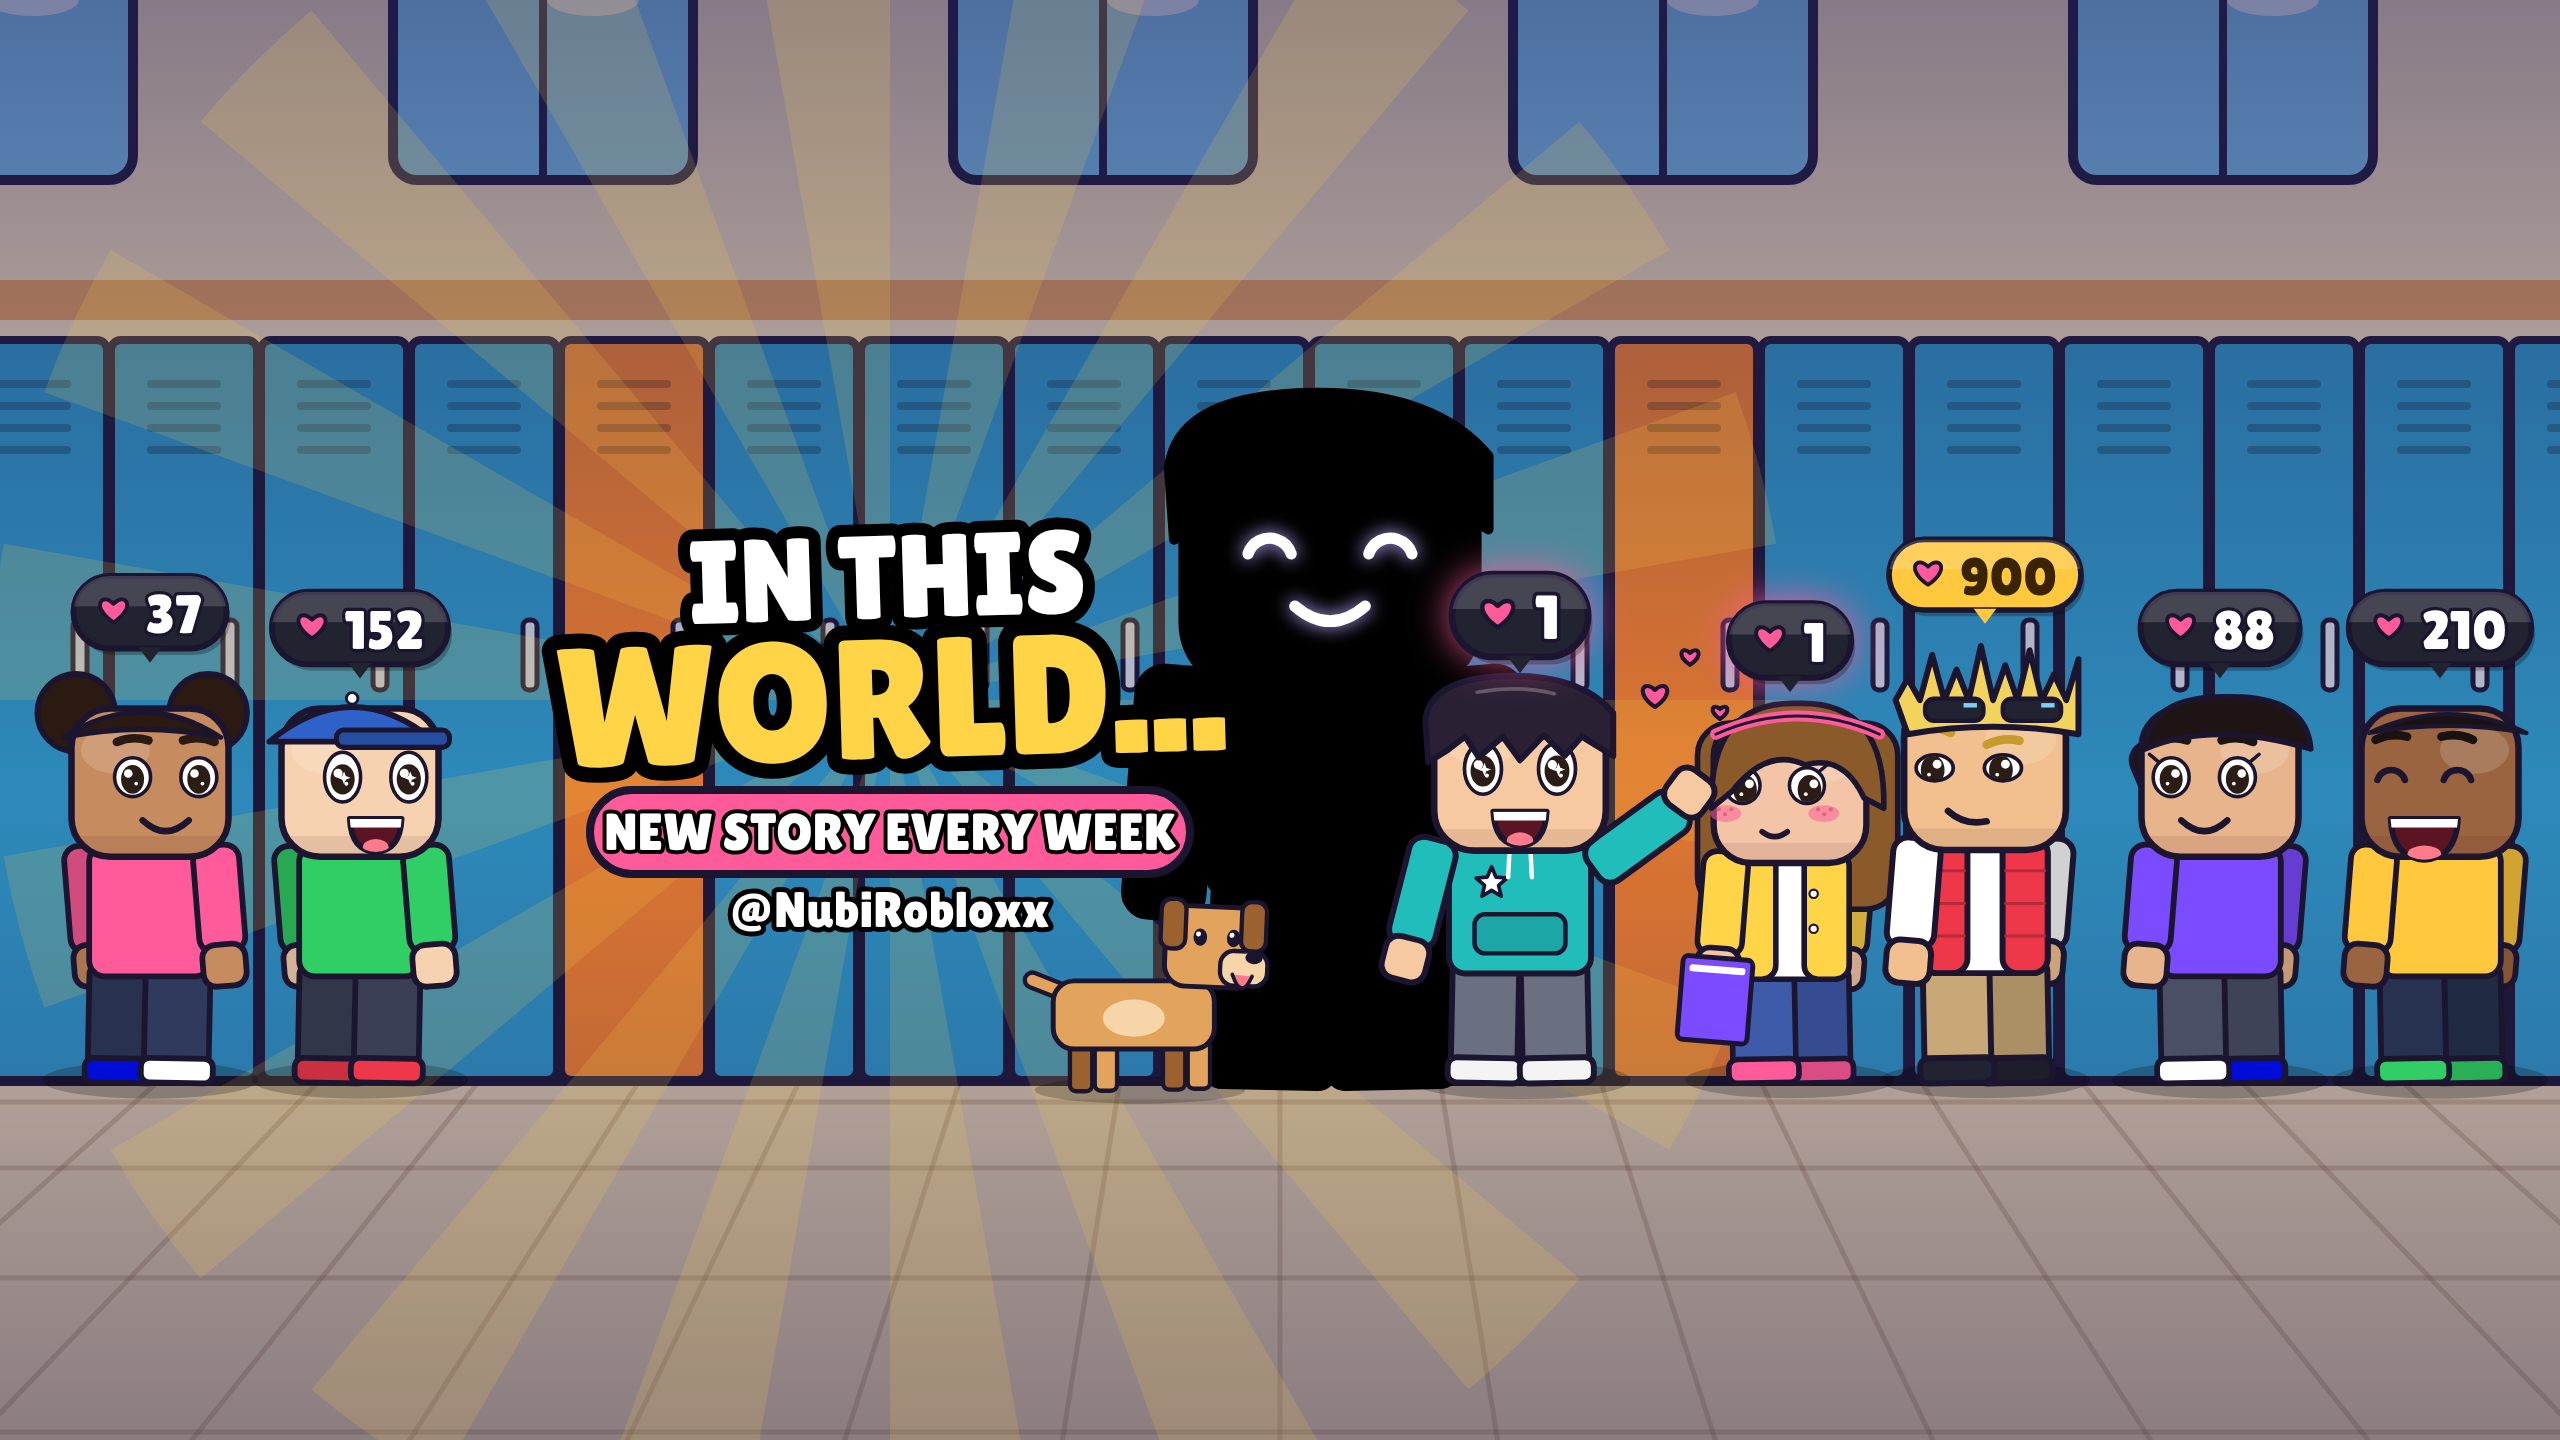
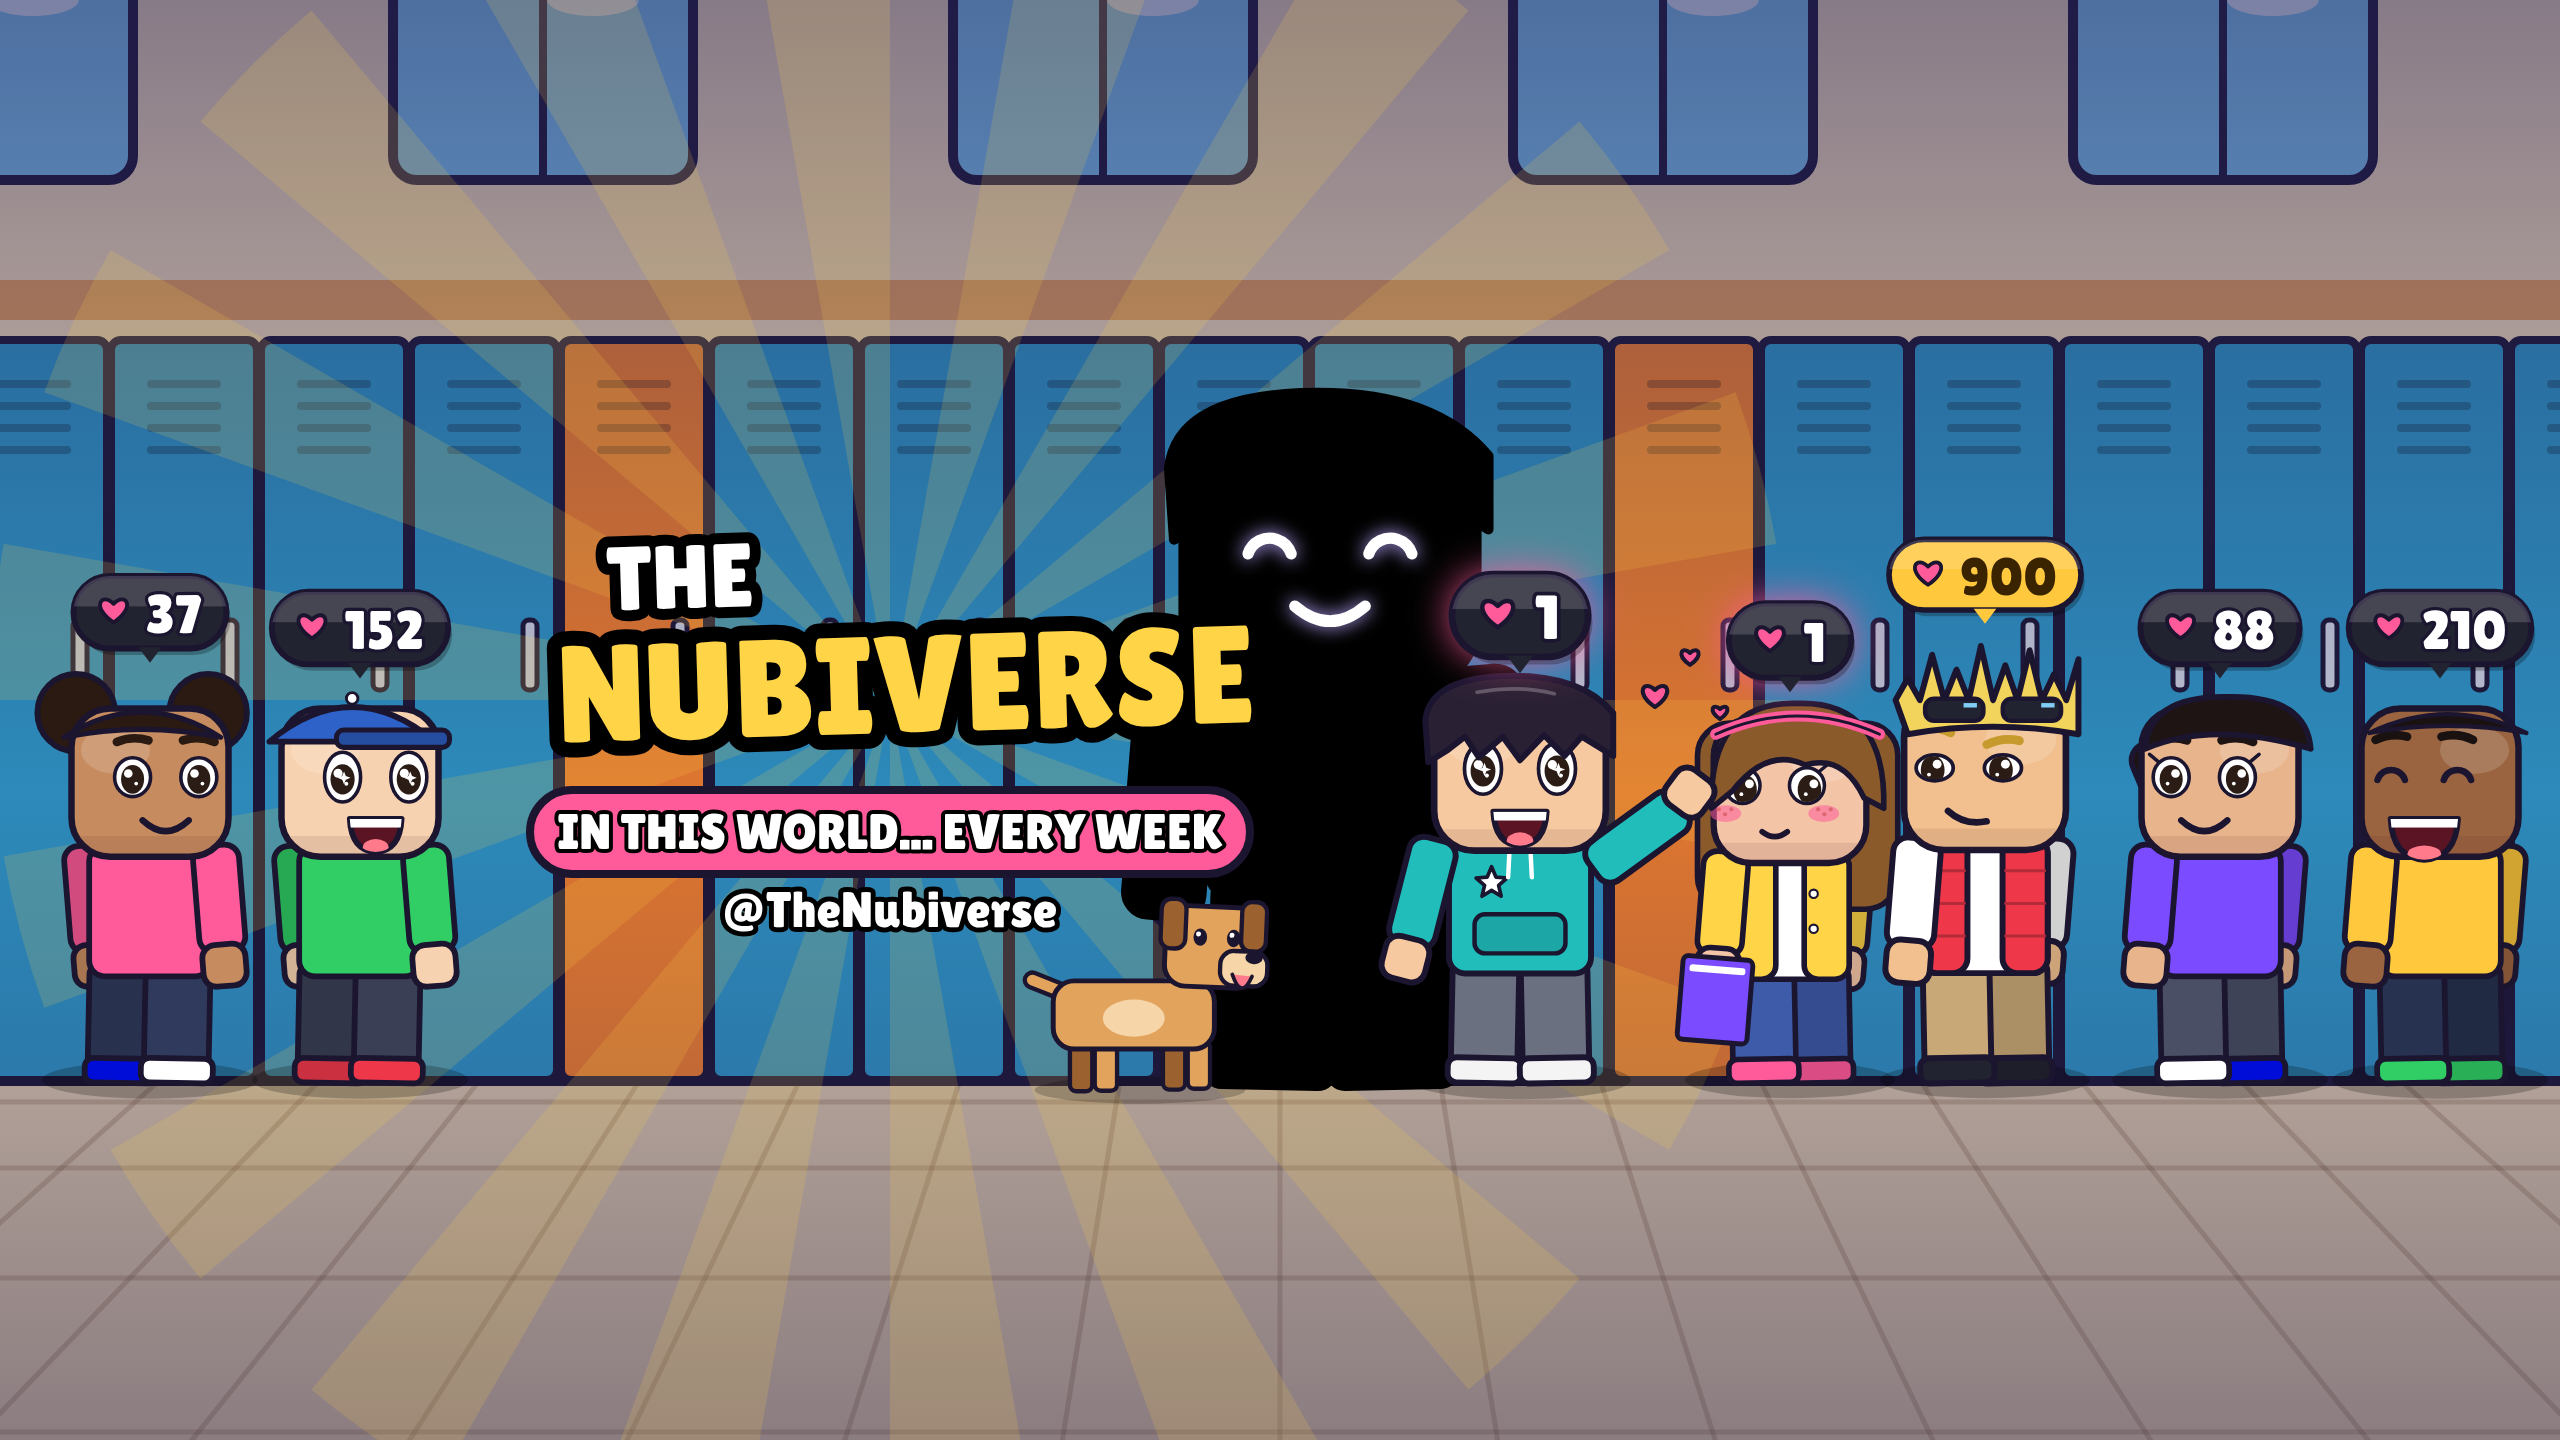
Rebrand channel art to The Nubiverse (@TheNubiverse)
Claude-Session: https://claude.ai/code/session_01Ea3AZVuRaTqjFgK1nAKL1t

Changed region(s): [[0.1875, 0.3438, 0.5, 0.6562]]

diff --git a/channel-branding/branding.html b/channel-branding/branding.html
@@ -24,8 +24,8 @@ function silhouette(name, p, k, dx, eyes = 'happy') {   // talking-shadow look f
 }
 function title(x, y, s = 1) {
   ctx.save(); ctx.translate(x, y); ctx.scale(s, s); ctx.rotate(-.03);
-  txt(ctx, 'IN THIS', 0, -78, 118, '#fff', '#000', 24);
-  txt(ctx, 'WORLD...', 0, 46, 170, '#FFD447', '#000', 30);
+  txt(ctx, 'THE', -222, -86, 90, '#fff', '#000', 22);
+  txt(ctx, 'NUBIVERSE', 0, 30, 138, '#FFD447', '#000', 30);
   ctx.restore();
 }
 async function go() {
@@ -56,9 +56,9 @@ async function go() {
     drawDog(ctx, 1140, FL + 10, .62, T);
     for (const [x, y, r] of [[1655, 700, 20], [1690, 660, 14], [1720, 715, 12]]) { heartPath(ctx, x, y, r); fillStroke(ctx, '#FF5B9B', 4); }
     // title block
-    title(890, 660, 1.0);
-    box(ctx, 590, 790, 600, 84, 42, '#FF5B9B', 8); txt(ctx, 'NEW STORY EVERY WEEK', 890, 834, 52, '#fff', '#000', 8);
-    txt(ctx, '@NubiRobloxx', 890, 912, 50, '#fff', '#000', 10);
+    title(905, 660, 1.0);
+    box(ctx, 530, 790, 720, 84, 42, '#FF5B9B', 8); txt(ctx, 'IN THIS WORLD... EVERY WEEK', 890, 834, 50, '#fff', '#000', 8);
+    txt(ctx, '@TheNubiverse', 890, 912, 50, '#fff', '#000', 10);
     if (mode === 'banner_safe') { ctx.setLineDash([24, 16]); ctx.lineWidth = 6; ctx.strokeStyle = '#30CE65'; ctx.strokeRect(507, 508, 1546, 423); ctx.strokeStyle = '#EE384A'; ctx.strokeRect(0, 509, 2560, 423);
       txt(ctx, 'mobile + desktop safe area', 1280, 480, 34, '#30CE65', '#000', 6); }
   } else {

diff --git a/channel-branding/README.md b/channel-branding/README.md
@@ -1,4 +1,4 @@
-# Channel packaging: NubiRobloxx
+# Channel packaging: The Nubiverse (@TheNubiverse)
 
 All art is drawn with the same code characters as the videos, so the channel and the Shorts match exactly.
 To regenerate, open `branding.html?mode=banner|banner_safe|icon|icon_preview`, or run
@@ -12,21 +12,18 @@ To regenerate, open `branding.html?mode=banner|banner_safe|icon|icon_preview`, o
 | `icon.png` | **Upload this as the profile picture** | 800×800 PNG |
 | `icon_preview.png` | How it looks in YouTube's circle crop | Reference only |
 
-## Name and handle
+## Name and handle (chosen)
 
-**Recommended name: `Nubi | In This World`**
-- "Nubi" is the brand and the main character, so people remember him.
-- "In This World" is the series. It's what people search for after watching a Short, and it matches every video title.
+- **Channel name:** `The Nubiverse`
+- **Handle:** `@TheNubiverse`
+- **Tagline (on the banner):** "In this world… every week"
 
-Other options: `Nubi Stories` · `In This World with Nubi` · `Nubi's World`
-
-**Handle: keep `@NubiRobloxx`.** Your existing videos, views and links already use it, and the banner shows it.
-If you want a handle without "Roblox" (the stories aren't about Roblox gameplay anymore), these are good options:
-`@NubiInThisWorld` · `@NubiStories` · `@InThisWorldNubi`. Check availability in YouTube Studio, under Customization → Basic info.
-Changing your handle can break old links that use @NubiRobloxx, so only switch if you really want the new one.
+On the day this was made, `youtube.com/@TheNubiverse` had no channel. Plain `@Nubiverse` was taken.
+YouTube confirms availability when you claim the handle in **YouTube Studio → Customization → Basic info**. Claim it soon.
+Once you switch, links that use the old @NubiRobloxx handle may stop working, so update any links you've shared.
 
 ## Channel description (copy-paste)
 
 > In this world… anything can happen. 🌎
-> Nubi is an ordinary 6th grader in a world with one magical rule per episode: shadows that say what you're thinking, numbers that show who really likes you, and more.
+> Welcome to The Nubiverse! Nubi is an ordinary 6th grader in a world with one magical rule per episode: shadows that say what you're thinking, numbers that show who really likes you, and more.
 > New animated story every week. Comment the next "In this world…" rule you want to see!
